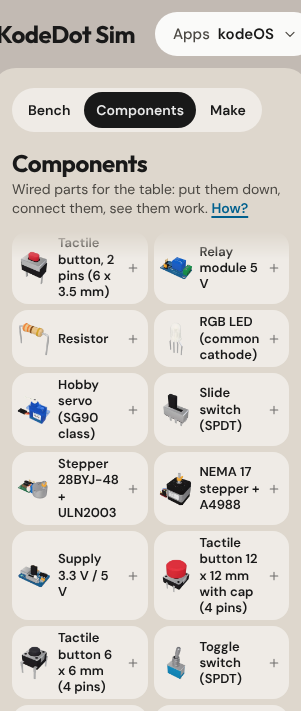
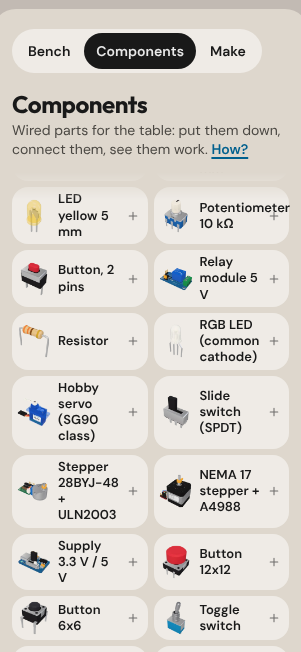
Buttons: short display names (two lines on a library card, en, pt-BR and es); the proof checks the line count

diff --git a/docs/STATUS-parts.md b/docs/STATUS-parts.md
@@ -205,15 +205,15 @@ Decision on Camera, Mesh and the hacking module: they are in the library as clea
 
 ## Buttons and switches (branch `feat/buttons`)
 
-Generator: `parts/gen/buttons.mjs` (the four new parts) and `parts/gen/legacy.mjs` (the push button). Models: `web/src/bench3d/models/inputs/`. Library: 43 parts.
+Display names are short so that a library card shows them in two lines (checked in en, pt-BR and es by `buttons-proof.mjs`); pin counts, sizes and the cap are in the descriptions. Generator: `parts/gen/buttons.mjs` (the four new parts) and `parts/gen/legacy.mjs` (the push button). Models: `web/src/bench3d/models/inputs/`. Library: 43 parts.
 
 | Id | Name | Pins | Body (mm) | How it is solved |
 |---|---|---|---|---|
-| `dotbench.push-button` | Tactile button, 2 pins (6 x 3.5 mm) | A, B (5.08 apart) | 6 x 3.5 x 5 | one `switch` A-B on the momentary field `pressed`, 5 ms bounce |
-| `dotbench.tact-6mm` | Tactile button 6 x 6 mm (4 pins) | A1, A2, B1, B2 | 6 x 8.02 x 5 (the box includes the legs) | `groups` A1-A2 and B1-B2 (the datasheet's 1-2 and 3-4), one `switch` A1-B1 on `pressed` |
-| `dotbench.tact-12mm` | Tactile button 12 x 12 mm with cap (4 pins) | A1, A2, B1, B2 | 12 x 13.1 x 12 | the same; enum field `cap` (black, red, blue, yellow, green, white) is only a look |
-| `dotbench.latching-button` | Latching push button (push on, push off) | NC1, COM1, NO1, NC2, COM2, NO2 | 8.5 x 8.5 x 14 | four `switch` elements on the boolean field `latched` (control mode `toggle`): COM-NC while false, COM-NO while true |
-| `dotbench.toggle-switch` | Toggle switch (SPDT) | A, COM, B (5.08 apart) | 13.2 x 7.9 x 27 | as the slide switch: enum field `position` a / b, control mode `toggle` |
+| `dotbench.push-button` | Button, 2 pins | A, B (5.08 apart) | 6 x 3.5 x 5 | one `switch` A-B on the momentary field `pressed`, 5 ms bounce |
+| `dotbench.tact-6mm` | Button 6x6 | A1, A2, B1, B2 | 6 x 8.02 x 5 (the box includes the legs) | `groups` A1-A2 and B1-B2 (the datasheet's 1-2 and 3-4), one `switch` A1-B1 on `pressed` |
+| `dotbench.tact-12mm` | Button 12x12 | A1, A2, B1, B2 | 12 x 13.1 x 12 | the same; enum field `cap` (black, red, blue, yellow, green, white) is only a look |
+| `dotbench.latching-button` | Latching button | NC1, COM1, NO1, NC2, COM2, NO2 | 8.5 x 8.5 x 14 | four `switch` elements on the boolean field `latched` (control mode `toggle`): COM-NC while false, COM-NO while true |
+| `dotbench.toggle-switch` | Toggle switch | A, COM, B (5.08 apart) | 13.2 x 7.9 x 27 | as the slide switch: enum field `position` a / b, control mode `toggle` |
 
 - **What the old push button was**: a 6 x 6 x 5 mm body with only two terminals (A, B, 5.08 mm apart, drawn with four legs). No real part is like that. It keeps its id, version, pins, field and its legs' positions about the centre, so a saved bench loads unchanged and a plugged button stands in the same holes (tested); its body is now the real two-leg 6 x 3.5 mm tactile button and its name says so. `abs_max_mv` went from 5.5 V to 12 V (a 9 V battery through it was an overvoltage hazard).
 - **Legs and the breadboard** (holes 2.54 mm apart, 7.62 mm between rows e and f): the 6 x 6 button's real legs are 6.5 mm apart across the body and 4.5 mm along a side; they are at 7.62 x 5.08 mm, which is what they spring to in a board, so it stands over the centre channel (e and f, two columns apart) and bridges the channel in each of its columns, as the real one does. The 12 x 12 one (real 12.5 x 5.0 mm) is at 12.7 x 5.08 mm: rows d and g. The latching button's rows are 7.62 mm apart (ESTIMATE and a choice: the real rows are about 5 mm apart and would put both poles in the same column strips; bent out to 7.62 mm it straddles the channel with a pole on each side).
